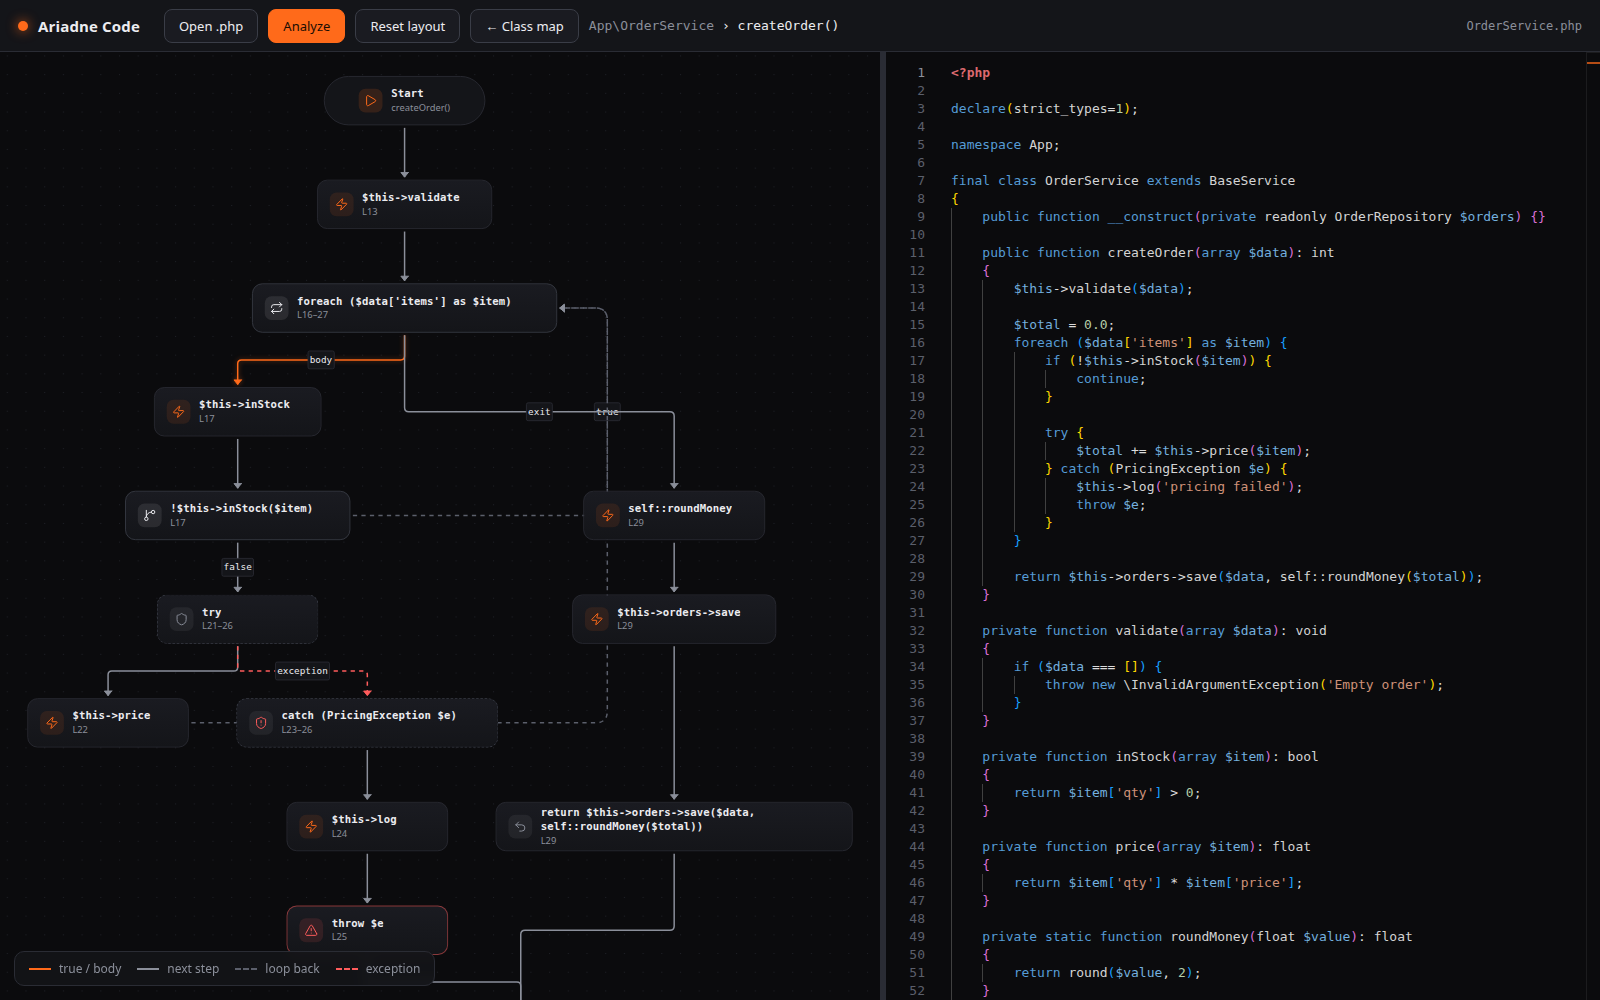
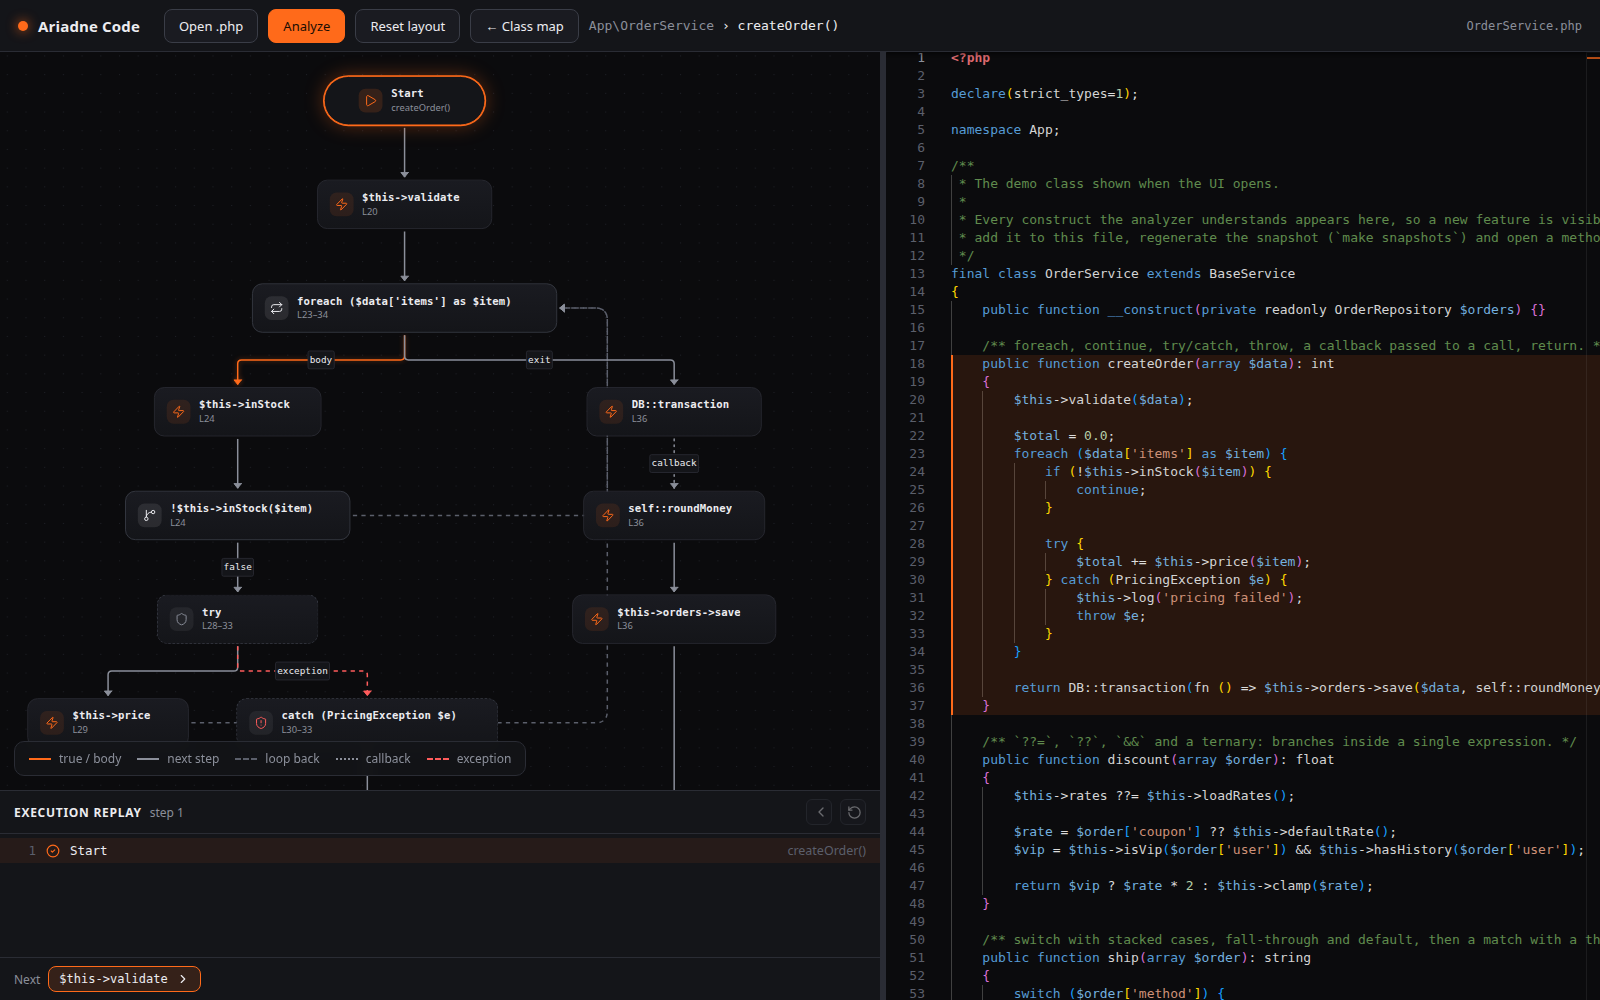
[docs] showcase rule, switch and match screenshots, refreshed images

diff --git a/README.md b/README.md
@@ -36,6 +36,10 @@ Classes are containers that hold their methods and can be resized; drag any bloc
 
 ![Method flow of createOrder](docs/screenshot-flow.png)
 
+`switch` and `match` branch per case; a `case` without `break` falls through to the next one:
+
+![Method flow with switch and match](docs/screenshot-flow-switch.png)
+
 **Execution replay:** below a method flow, the *Execution replay* panel walks through the method step by step. **→** takes the next step (or pick a branch when the code forks), **←** goes back, and a click on a log entry jumps to that step. The path walked so far lights up in the graph, and the current step is highlighted in the source code. It is static: no code runs, you choose the branches.
 
 ![Execution replay](docs/screenshot-replay.png)
@@ -106,6 +110,8 @@ Deliberate simplifications (the graph never claims more than it knows):
 What currently resolves: `$this->method()`, `self::method()` and `static::method()` within the same class, case-insensitively. Everything else (calls on other objects, inherited methods, `parent::`, dynamic names such as `$this->$name()`) becomes an `unresolved` node, so the graph never asserts something the code does not prove.
 
 ## Development
+
+**The showcase.** [`tests/fixtures/OrderShowcase.php`](tests/fixtures/OrderShowcase.php) is the demo class the UI opens with, and its graph is pinned by a snapshot test. Every construct the analyzer understands appears in it. When you teach the analyzer something new, add an example of it there, run `make snapshots`, review the diff, and open the method in the UI: a feature that is not visible in the demo is not finished. A test fails if the showcase stops covering a kind of branch.
 
 ```bash
 make check   # Pint (PER) + PHPStan level max + PHPUnit
